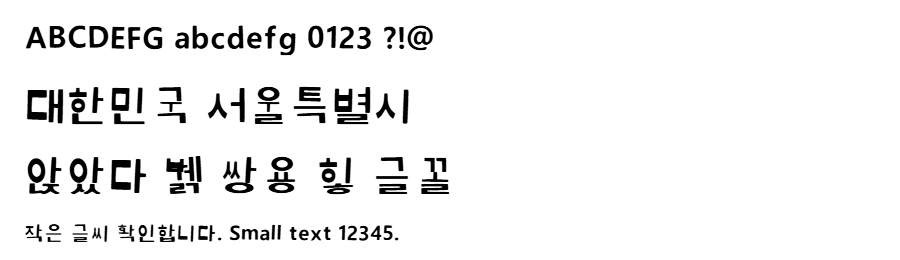
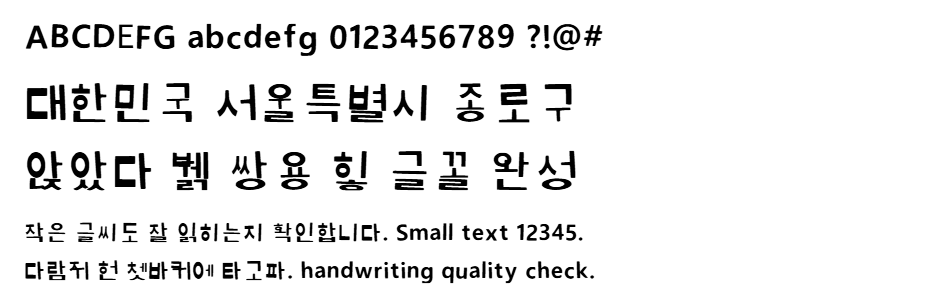
양식: 영문은 영어노트 4선, 한글은 십자 4등분
- 영문 칸에 윗선·중간선·밑선·아랫선. 위치는 안내 글자를 실제로 재서 잡으므로
  글자가 정확히 선 위에 앉는다. 소문자 높이가 일정해지면 폰트 품질이 크게 오른다
- 한글 칸에 십자선. 칸 전체가 음절 사각형이고 파란 영역은 그 안에서 이 자모가
  차지하는 자리라는 것을 눈으로 보여 준다

안내선을 점선으로 그린다. 흑백 인쇄를 하면 안내선이 회색 실물로 남는데,
점선이면 조각이 잡티 제거 기준보다 작아 저절로 지워지고 획에 붙어도 짧은 꼬리만 남는다.

다만 점선 조각은 칸 테두리에 닿지 않아 기존의 '가늘고 긴 선 제거'를 빠져나갔다.
흑백 인쇄본에서 빈 칸에 안내선 조각이 잉크로 잡히는 것을 확인(U 칸 481px, o 칸 996px).
이진화 상한에 '종이 밝기의 62%' 를 추가해 막았다. 이제 컬러와 흑백이 같은 결과를 낸다.

README 의 USERNAME 안내 문구도 함께 정리.

Changed region(s): [[0.0, 0.2769, 0.6222, 0.8308], [0.0311, 0.0615, 0.6533, 0.2154], [0.0, 0.8615, 0.6222, 0.9538]]

diff --git a/src/template.js b/src/template.js
@@ -70,8 +70,10 @@
     ctx.font = f(30, 'bold');
     ctx.fillText('손글씨 폰트 양식', 150, 130);
     ctx.font = f(20);
-    ctx.fillText('연한 파란 글자를 따라 검은 펜으로 크고 진하게 쓰세요. 칸 밖으로 나가지 않게.',
-                 150, 168);
+    ctx.fillText(meta.scope === 'latin'
+      ? '연한 파란 글자를 따라 검은 펜으로 쓰세요. 굵은 밑선에 글자를 앉히고, 소문자는 중간선까지.'
+      : '연한 파란 글자를 따라 검은 펜으로 쓰세요. 파란 영역을 채우듯이, 십자선을 기준 삼아.',
+      150, 168);
     ctx.font = f(22, 'bold');
     ctx.fillText((page.index + 1) + ' / ' + meta.totalPages + ' 쪽', 560, 222);
     ctx.font = f(18);
@@ -99,32 +101,24 @@
                 g[2] * wr[2], g[3] * wr[3]];
       ctx.fillStyle = C_FILL;
       ctx.fillRect(gr[0], gr[1], gr[2], gr[3]);
+      drawQuadrants(ctx, wr);
       ctx.fillStyle = C_HINT;
       // 안내 글자를 안내 영역보다 살짝 작게 넣어 답답해 보이지 않게 한다
       var pad = 0.04;
       fitText(ctx, cell.hint, 200,
               [gr[0] + gr[2] * pad, gr[1] + gr[3] * pad,
                gr[2] * (1 - 2 * pad), gr[3] * (1 - 2 * pad)], cell.kind);
+    } else {
+      drawWritingLines(ctx, r, cell.baselineY);
+      ctx.fillStyle = C_HINT;
+      fitTextBaseline(ctx, cell.hint, r, cell.baselineY);
     }
 
     // 칸 테두리
     ctx.strokeStyle = C_LINE;
     ctx.lineWidth = 2;
+    ctx.setLineDash([]);
     ctx.strokeRect(r[0] + 1, r[1] + 1, r[2] - 2, r[3] - 2);
-
-    if (!cell.guide) {
-      // 라틴 칸: 베이스라인이 폰트 품질을 좌우하므로 뚜렷하게 표시한다
-      ctx.beginPath();
-      ctx.setLineDash([6, 5]);
-      ctx.lineWidth = 2;
-      ctx.moveTo(r[0] + 8, cell.baselineY);
-      ctx.lineTo(r[0] + r[2] - 8, cell.baselineY);
-      ctx.stroke();
-      ctx.setLineDash([]);
-
-      ctx.fillStyle = C_HINT;
-      fitTextBaseline(ctx, cell.hint, r, cell.baselineY);
-    }
 
     // 칸 안 작은 설명 (예: 초성 ㄱ 칸에 '가')
     if (cell.note) {
@@ -132,6 +126,63 @@
       ctx.font = f(16);
       ctx.fillText(cell.note, r[0] + 7, r[1] + 21);
     }
+  }
+
+  /* 안내선은 반드시 '짧은 점선'으로 그린다.
+   *
+   * 컬러로 인쇄하면 파랑 채널에서 알아서 사라지지만, 흑백 프린터로 뽑으면
+   * 회색 실선이 되어 이진화에 걸릴 수 있다. 점선이면 조각 하나하나가 잡티
+   * 제거 기준보다 작아 저절로 지워지고, 글자 획과 붙더라도 아주 짧은 꼬리만
+   * 남는다. 실선으로 바꾸면 획에 가로줄이 달라붙는 폰트가 나올 수 있다. */
+  function dash(ctx, x0, y0, x1, y1, pattern, width) {
+    ctx.save();
+    ctx.strokeStyle = C_LINE;
+    ctx.lineWidth = width;
+    ctx.setLineDash(pattern);
+    ctx.beginPath();
+    ctx.moveTo(x0, y0);
+    ctx.lineTo(x1, y1);
+    ctx.stroke();
+    ctx.restore();
+  }
+
+  /* 글꼴에서 실제 잰 값. 안내 글자가 정확히 선 위에 앉도록 하기 위함이다. */
+  var metricCache = {};
+
+  function latinMetrics(ctx, size) {
+    if (metricCache[size]) return metricCache[size];
+    ctx.save();
+    ctx.font = f(size);
+    metricCache[size] = {
+      asc: ctx.measureText('bdfhklHT').actualBoundingBoxAscent,   // 키 큰 글자
+      xh: ctx.measureText('xaceoz').actualBoundingBoxAscent,      // 소문자 높이
+      desc: ctx.measureText('gpqy').actualBoundingBoxDescent      // 내려가는 획
+    };
+    ctx.restore();
+    return metricCache[size];
+  }
+
+  /* 영어 노트처럼 네 줄을 긋는다.
+   * 소문자 높이(중간선)를 일정하게 잡아 주는 것이 폰트 품질에 특히 크게 작용한다. */
+  function drawWritingLines(ctx, r, baselineY) {
+    var m = latinMetrics(ctx, Math.round(r[3] * LATIN_HINT_RATIO));
+    var x0 = r[0] + 7, x1 = r[0] + r[2] - 7;
+    var top = Math.max(r[1] + 4, baselineY - m.asc);
+    var bot = Math.min(r[1] + r[3] - 4, baselineY + m.desc);
+
+    dash(ctx, x0, top, x1, top, [3, 7], 1);                    // 윗선
+    dash(ctx, x0, baselineY - m.xh, x1, baselineY - m.xh, [4, 6], 1);   // 중간선
+    dash(ctx, x0, baselineY, x1, baselineY, [9, 4], 2);        // 밑선(가장 중요)
+    dash(ctx, x0, bot, x1, bot, [3, 7], 1);                    // 아랫선
+  }
+
+  /* 한글 칸을 십자로 4등분한다.
+   * 칸 전체가 '음절 사각형'이고, 파란 영역은 그 안에서 이 자모가 차지하는 자리다.
+   * 십자선이 있으면 자모가 음절의 어디쯤 앉는지 눈으로 가늠하기 쉬워진다. */
+  function drawQuadrants(ctx, wr) {
+    var cx = wr[0] + wr[2] / 2, cy = wr[1] + wr[3] / 2;
+    dash(ctx, wr[0] + 4, cy, wr[0] + wr[2] - 4, cy, [4, 6], 1);
+    dash(ctx, cx, wr[1] + 4, cx, wr[1] + wr[3] - 4, [4, 6], 1);
   }
 
   /* 라틴 글자는 비율(대문자 높이, 내려가는 획)이 살아 있어야 하므로
@@ -158,6 +209,7 @@
     ctx.scale(scale, scale);
     drawPage(ctx, layout, layout.pages[pageIndex], {
       totalPages: layout.pages.length,
+      scope: layout.pages[pageIndex].cells[0].guide ? 'jamo' : 'latin',
       scopeLabel: HF.charset.SCOPES[layout.scope].label
     });
     return cv;

diff --git a/index.html b/index.html
@@ -51,8 +51,11 @@
     <ul class="tips">
       <li><b>A4 · 실제 크기(100%)</b> 로 인쇄하세요. ‘용지에 맞춤’ 을 끄면 됩니다.</li>
       <li>연한 파란 글자를 따라 <b>검은 볼펜이나 사인펜</b>으로 크고 진하게 씁니다.</li>
+      <li><b>영문 칸</b>은 영어 노트처럼 네 줄이 있습니다. 굵은 밑선에 글자를 앉히고,
+          소문자는 중간선까지, <code>b d h k l</code> 같은 키 큰 글자는 윗선까지 씁니다.</li>
+      <li><b>한글 칸</b>의 십자선은 음절 사각형을 4등분한 것입니다.
+          연한 파란 영역을 채우듯 쓰면 글자가 예쁘게 조합됩니다.</li>
       <li>칸 밖으로 나가지 않게, 옆 칸과 겹치지 않게 씁니다.</li>
-      <li>한글 자모 칸은 <b>연한 파란 사각형을 꽉 채우도록</b> 쓰면 글자가 예쁘게 조합됩니다.</li>
       <li>연필은 너무 흐려서 잘 인식되지 않습니다.</li>
     </ul>
   </div>

diff --git a/src/imageproc.js b/src/imageproc.js
@@ -299,7 +299,15 @@
     if (paper - darkest < 45) {
       return { mask: new Uint8Array(crop.w * crop.h), ink: 0, empty: true };
     }
-    var thr = Math.min(otsu(histogramOf(crop.gray), crop.gray.length), paper - 45);
+    /* 잉크로 인정할 어둡기의 상한.
+     *
+     * 안내선은 컬러로 인쇄하면 파랑 채널에서 알아서 사라지지만, 흑백 프린터로
+     * 뽑으면 연한 회색 실물이 되어 남는다. 게다가 점선이라 조각마다 칸 테두리에
+     * 닿지 않아 '가늘고 긴 선 제거'도 빠져나간다. 그래서 종이 밝기의 62% 보다
+     * 어두운 것만 잉크로 본다. 안내선(종이 대비 약 74%)은 걸러지고
+     * 검은 펜(약 15%)은 넉넉히 통과한다. */
+    var thr = Math.min(otsu(histogramOf(crop.gray), crop.gray.length),
+                       paper - 45, paper * 0.62);
     var mask = new Uint8Array(crop.w * crop.h);
     var ink = 0;
     for (var i = 0; i < mask.length; i++) {

diff --git a/README.md b/README.md
@@ -4,7 +4,6 @@
 프로그램 설치도, 회원 가입도, 파일 업로드도 없습니다. 웹페이지 하나가 전부입니다.
 
 **👉 [바로 사용하기](https://pju0417.github.io/font/)**
-*(저장소를 복사한 뒤 위 주소의 `USERNAME` 을 본인 깃허브 아이디로 바꿔 주세요)*
 
 | 인쇄해서 쓰는 양식 | 한글 자모 쪽 |
 |---|---|
@@ -37,10 +36,23 @@
 
 - 연한 파란 글자를 따라 **검은 볼펜이나 사인펜**으로 씁니다. 연필은 너무 흐립니다.
 - 칸 밖으로 나가지 않게, 옆 칸과 겹치지 않게.
-- 한글 자모 칸은 **연한 파란 사각형을 채우도록** 쓰면 조합이 예쁘게 됩니다.
-  칸 왼쪽 위의 작은 글자(`나`, `고`, `아` …)가 그 자모가 어떤 글자에 쓰이는지 알려 줍니다.
-- 라틴 칸은 `b` `d` `h` 같은 키 큰 글자가 칸 위쪽에 거의 닿을 만큼 크게 씁니다.
-  **작게 쓰면 완성된 폰트도 작게 나옵니다.**
+
+**영문 칸**은 영어 노트처럼 네 줄입니다.
+
+| 선 | 뜻 |
+|---|---|
+| 윗선 | `b` `d` `h` `k` `l` 과 대문자의 꼭대기 |
+| 중간선 | `a` `c` `e` `o` 같은 소문자의 꼭대기 |
+| **밑선(굵은 선)** | 글자가 앉는 자리 — 가장 중요합니다 |
+| 아랫선 | `g` `p` `q` `y` 의 내려가는 획 끝 |
+
+소문자 높이를 중간선에 맞춰 일정하게 쓰는 것이 폰트 품질에 특히 크게 작용합니다.
+**작게 쓰면 완성된 폰트도 작게 나옵니다.**
+
+**한글 칸**의 십자선은 음절 사각형을 4등분한 것입니다. 칸 전체가 글자 하나가 들어갈
+사각형이고, 연한 파란 영역은 그 안에서 이 자모가 차지하는 자리입니다. 파란 영역을
+채우듯 쓰면 조합이 예쁘게 됩니다. 칸 왼쪽 위의 작은 글자(`나`, `고`, `아` …)가
+그 자모가 어떤 글자에 쓰이는지 알려 줍니다.
 
 > **✏ 아이패드가 있다면 인쇄하지 않아도 됩니다.**
 > 양식 PDF 를 굿노트·노타빌리티·파일 앱 등에서 열고 애플펜슬로 바로 쓴 다음,
